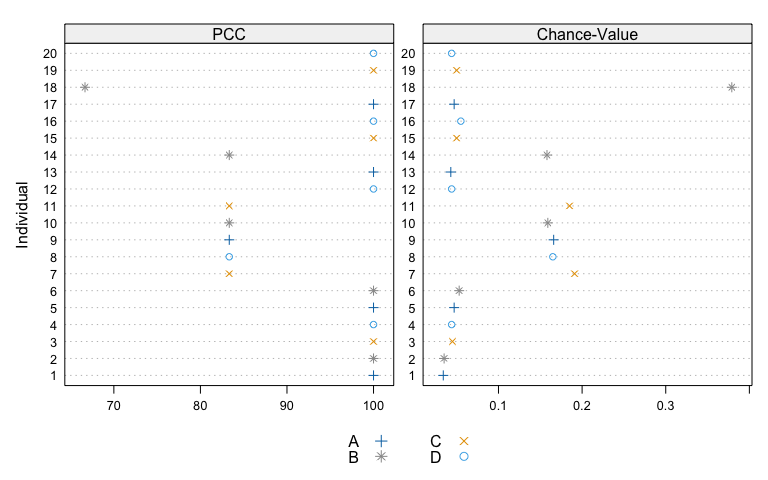
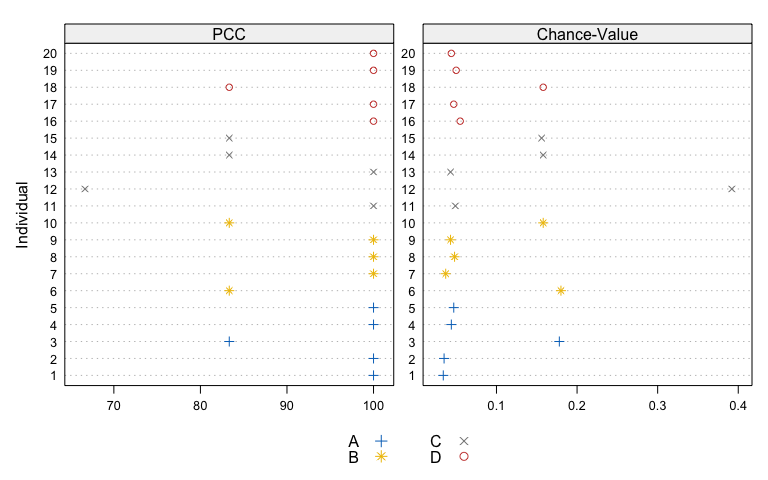
Updated README

diff --git a/README.md b/README.md
@@ -148,15 +148,6 @@ plot(opamod)
 
 <img src="man/figures/README-plot_opamod1-1.png" style="display: block; margin: auto;" />
 
-To aid interpretation, individual PCCs and c-values can also be plotted
-relative to user-specified thresholds:
-
-``` r
-plot(opamod, pcc_threshold = 90, cval_threshold = 0.1)
-```
-
-<img src="man/figures/README-threshold_plots-1.png" style="display: block; margin: auto;" />
-
 ### Pairwise comparison of measurement conditions
 
 Pairwise comparisons of measurement conditions can be calculated by
@@ -189,7 +180,7 @@ can be passed with the `group` keyword to produce results for each group
 within the data, in addition to individual results.
 
 ``` r
-dat$group <- rep(c("A", "B", "C", "D"), 5)
+dat$group <- rep(c("A", "B", "C", "D"), each = 5)
 dat$group <- factor(dat$group, levels = c("A", "B", "C", "D"))
 
 opamod2 <- opa(dat[, 1:4], h, group = dat$group)
@@ -202,33 +193,33 @@ summary(opamod2, digits = 3)
 #> Ordinal Pattern Analysis of 4 observations for 20 individuals in 4 groups 
 #> 
 #> Between subjects results:
-#>       PCC   cval
-#> A 100.000 <0.001
-#> B  86.667 <0.001
-#> C  93.333 <0.001
-#> D  93.333 <0.001
+#>      PCC   cval
+#> A 96.667 <0.001
+#> B 93.333 <0.001
+#> C 86.667  0.002
+#> D 96.667 <0.001
 #> 
 #> Within subjects results:
 #>     Individual     PCC  cval
 #> A            1 100.000 0.034
-#> A.1          5 100.000 0.035
-#> A.2          9 100.000 0.045
-#> A.3         13 100.000 0.044
-#> A.4         17 100.000 0.047
-#> B            2 100.000 0.053
-#> B.1          6  83.333 0.191
-#> B.2         10  83.333 0.165
-#> B.3         14  83.333 0.166
-#> B.4         18  83.333 0.159
-#> C            3  83.333 0.185
-#> C.1          7 100.000 0.044
-#> C.2         11 100.000 0.043
-#> C.3         15  83.333 0.158
-#> C.4         19 100.000  0.05
-#> D            4 100.000 0.055
-#> D.1          8 100.000 0.047
-#> D.2         12  66.667 0.379
-#> D.3         16 100.000  0.05
+#> A.1          2 100.000 0.035
+#> A.2          3  83.333 0.178
+#> A.3          4 100.000 0.044
+#> A.4          5 100.000 0.047
+#> B            6  83.333  0.18
+#> B.1          7 100.000 0.037
+#> B.2          8 100.000 0.048
+#> B.3          9 100.000 0.043
+#> B.4         10  83.333 0.158
+#> C           11 100.000 0.049
+#> C.1         12  66.667 0.392
+#> C.2         13 100.000 0.043
+#> C.3         14  83.333 0.158
+#> C.4         15  83.333 0.156
+#> D           16 100.000 0.055
+#> D.1         17 100.000 0.047
+#> D.2         18  83.333 0.158
+#> D.3         19 100.000  0.05
 #> D.4         20 100.000 0.044
 #> 
 #> PCCs were calculated for pairwise ordinal relationships using a difference threshold of 0.
@@ -261,10 +252,10 @@ summary(group_comp)
 #> ********* Group Comparison **********
 #> Group 1: A 
 #> Group 2: B 
-#> Group 1 PCC: 100 
-#> Group 2 PCC: 86.66667 
-#> PCC difference: 13.33333 
-#> cval: 0.43 
+#> Group 1 PCC: 96.66667 
+#> Group 2 PCC: 93.33333 
+#> PCC difference: 3.333333 
+#> cval: 0.776 
 #> Comparison type: two-tailed
 ```
 
